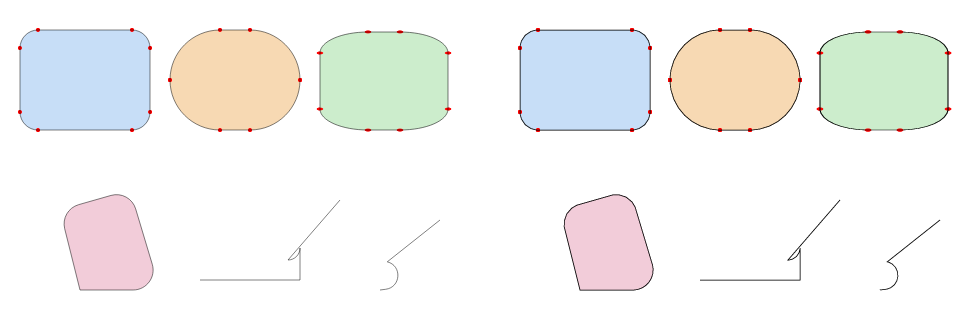
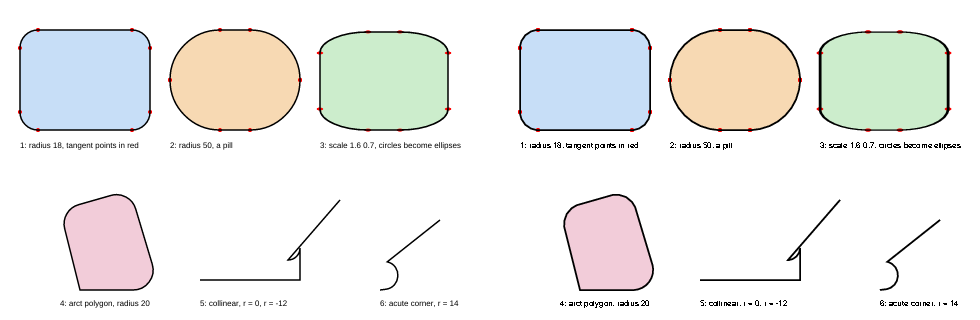
arcto/arct: selftest driver with labels, gs PDF raster check, SVG pin, drop a gs-noise case
Claude-Session: https://claude.ai/code/session_016y8NtPAtrUuc1EF8qPwKTi

diff --git a/tests/arcto.rs b/tests/arcto.rs
@@ -332,7 +332,14 @@ fn rounded_rectangle_png_has_round_corners() {
 fn rounded_rectangle_svg_and_pdf_carry_the_curves() {
     let it = render(ROUNDRECT);
     let svg = it.gfx().svg_pages().expect("svg on").concat();
-    assert_eq!(svg.matches('C').count(), 4, "four corner curves: {svg}");
+    assert!(
+        svg.contains(
+            "<path d=\"M100 150L130 150C146.569 150 160 136.569 160 120L160 80\
+             C160 63.431 146.569 50 130 50L70 50C53.431 50 40 63.431 40 80L40 120\
+             C40 136.569 53.431 150 70 150Z\" fill=\"#1a4dcc\""
+        ),
+        "the rounded rectangle's path: {svg}"
+    );
     let pdf = pdf_text(&it.gfx().pdf_document().expect("pdf on"));
     // Four cubic segments; `h` closes the page fill and the shape.
     let ops = |op: &str| pdf.split_whitespace().filter(|w| *w == op).count();
@@ -371,10 +378,12 @@ fn gs_output(body: &str) -> String {
 /// operand stack of an error case is dropped before comparing.
 fn words(line: &str) -> Vec<Result<f64, String>> {
     let mut line = line.to_string();
-    if !line.contains("=> ok") {
-        if let (Some(a), Some(b)) = (line.find("stack:"), line.find("path:")) {
-            line.replace_range(a..b, "stack: ");
-        }
+    if let (false, Some(a), Some(b)) = (
+        line.contains("=> ok"),
+        line.find("stack:"),
+        line.find("path:"),
+    ) {
+        line.replace_range(a..b, "stack: ");
     }
     line.split_whitespace()
         .map(|w| w.parse::<f64>().map_err(|_| w.to_string()))
@@ -431,10 +440,9 @@ fn ghostscript_agrees_case_by_case() {
         ),
         ("scaled", "2 0.5 scale 0 0 moveto 50 0 50 100 10 arcto"),
         ("rotated", "30 rotate 0 0 moveto 100 0 100 100 10 arcto"),
-        (
-            "rotated fold-back",
-            "30 rotate 0 0 moveto 100 0 -50 0 10 arcto",
-        ),
+        // No rotated fold-back here: gs's answer to it depends on its own
+        // rounding noise (a line, or limitcheck, by CTM). The pscat side is
+        // pinned in `collinear_points_draw_a_line_to_the_corner`.
         (
             "rotated and scaled",
             "30 rotate 3 1.7 scale 0 0 moveto 50 20 80 -30 10 arcto",
@@ -512,5 +520,51 @@ fn ghostscript_draws_the_same_rounded_rectangles() {
             .count();
         // Edge pixels may differ in antialiasing; the shape may not.
         assert!(differing < 80, "{name}: {differing} pixels differ from gs");
+    }
+}
+
+#[test]
+fn ghostscript_rasterises_our_pdf_like_our_canvas() {
+    if !gs_available() {
+        eprintln!("skipping the gs PDF comparison: gs is not installed");
+        return;
+    }
+    for (name, prog) in [("plain", ROUNDRECT), ("scaled", SCALED_ROUNDRECT)] {
+        let it = render(prog);
+        let pdf = it.gfx().pdf_document().expect("pdf on");
+        let dir = common::scratch_dir("arcto_pdf_raster");
+        let (pdf_path, png) = (dir.join("rr.pdf"), dir.join("rr.png"));
+        std::fs::write(&pdf_path, pdf).expect("write pdf");
+        let out = Command::new("gs")
+            .args([
+                "-q",
+                "-dNOPAUSE",
+                "-dBATCH",
+                "-sDEVICE=png16m",
+                "-dGraphicsAlphaBits=4",
+                "-g200x200",
+                "-r72",
+            ])
+            .arg(format!("-o{}", png.display()))
+            .arg(&pdf_path)
+            .output_deadline()
+            .expect("run gs");
+        assert!(out.status.success(), "{name}: gs rejected our PDF");
+        let gs = tiny_skia::Pixmap::decode_png(&std::fs::read(&png).expect("png")).expect("decode");
+        let _ = std::fs::remove_dir_all(&dir);
+        let ours = &it.gfx().pixmap;
+        let differing = gs
+            .pixels()
+            .iter()
+            .zip(ours.pixels())
+            .filter(|(a, b)| {
+                let d = |x: u8, y: u8| x.abs_diff(y) as u32;
+                d(a.red(), b.red()) + d(a.green(), b.green()) + d(a.blue(), b.blue()) > 96
+            })
+            .count();
+        assert!(
+            differing < 80,
+            "{name}: {differing} pixels differ between gs(PDF) and the canvas"
+        );
     }
 }

diff --git a/notes/980-arcto-arct.md b/notes/980-arcto-arct.md
@@ -34,8 +34,16 @@ where pscat either draws the large geometry or, inside the tolerance, a line.
 (`src/capabilities.rs`), so neither operator is added there. No `%%SelfTest`
 block: those belong to `lib/*.ps` files, and the cargo test covers this.
 
-**Review render.** `notes/980-arcto-arct/roundrects.ps` draws rounded
-rectangles with `arcto` (tangent points in red), a pill, a non-uniform-scale
-version, an `arct` polygon, and the collinear, zero-radius, negative-radius and
-acute cases. `pscat-left-gs-right.png` is pscat (left) beside Ghostscript
-(right); the shapes coincide, only stroke antialiasing differs.
+**Review render and selftest driver.** `selftest/drivers/arcto.ps` draws
+rounded rectangles with `arcto` (tangent points in red), a pill, a
+non-uniform-scale one, an `arct` polygon, and the collinear, zero-radius,
+negative-radius and acute cases; `scripts/selftest.sh` strict-lints it.
+`notes/980-arcto-arct/pscat-left-gs-right.png` is pscat (left) beside
+Ghostscript (right): the shapes coincide, only stroke antialiasing differs.
+
+**Verified.** Two-binary identity check (`--base-bin/--head-bin`) over all
+tracked `examples/*.ps` and `selftest/drivers/*.ps`: 159 pages identical, the
+control (the new driver) differs as it must. No tracked `.ps` in `lib/`,
+`gallery/` or `fuzz/` mentions `arcto` or `arct`, so no existing program can
+reach the new operators. SVG and PDF exports are pinned in `tests/arcto.rs`
+(the SVG path text, and gs rasterising our PDF against our canvas).
